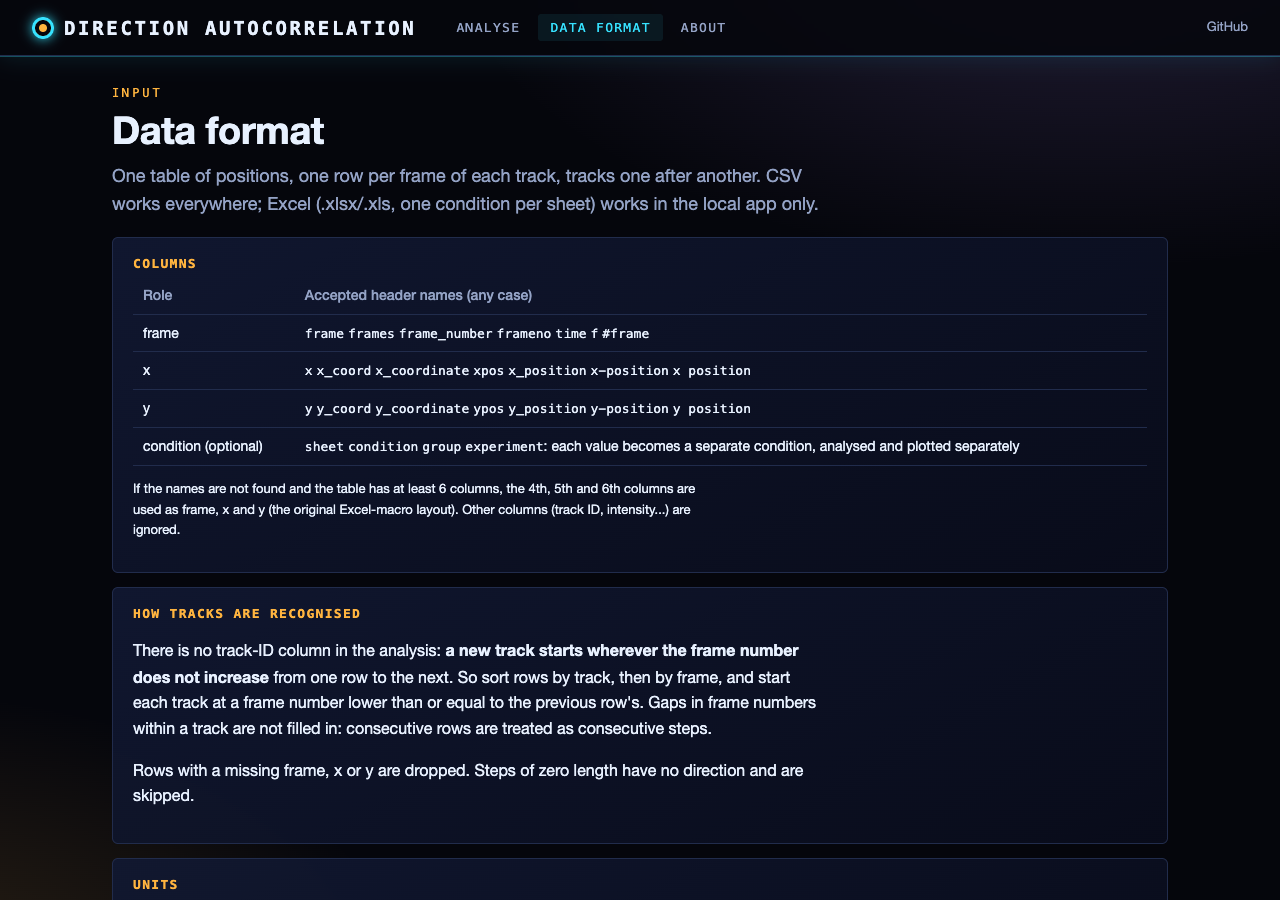
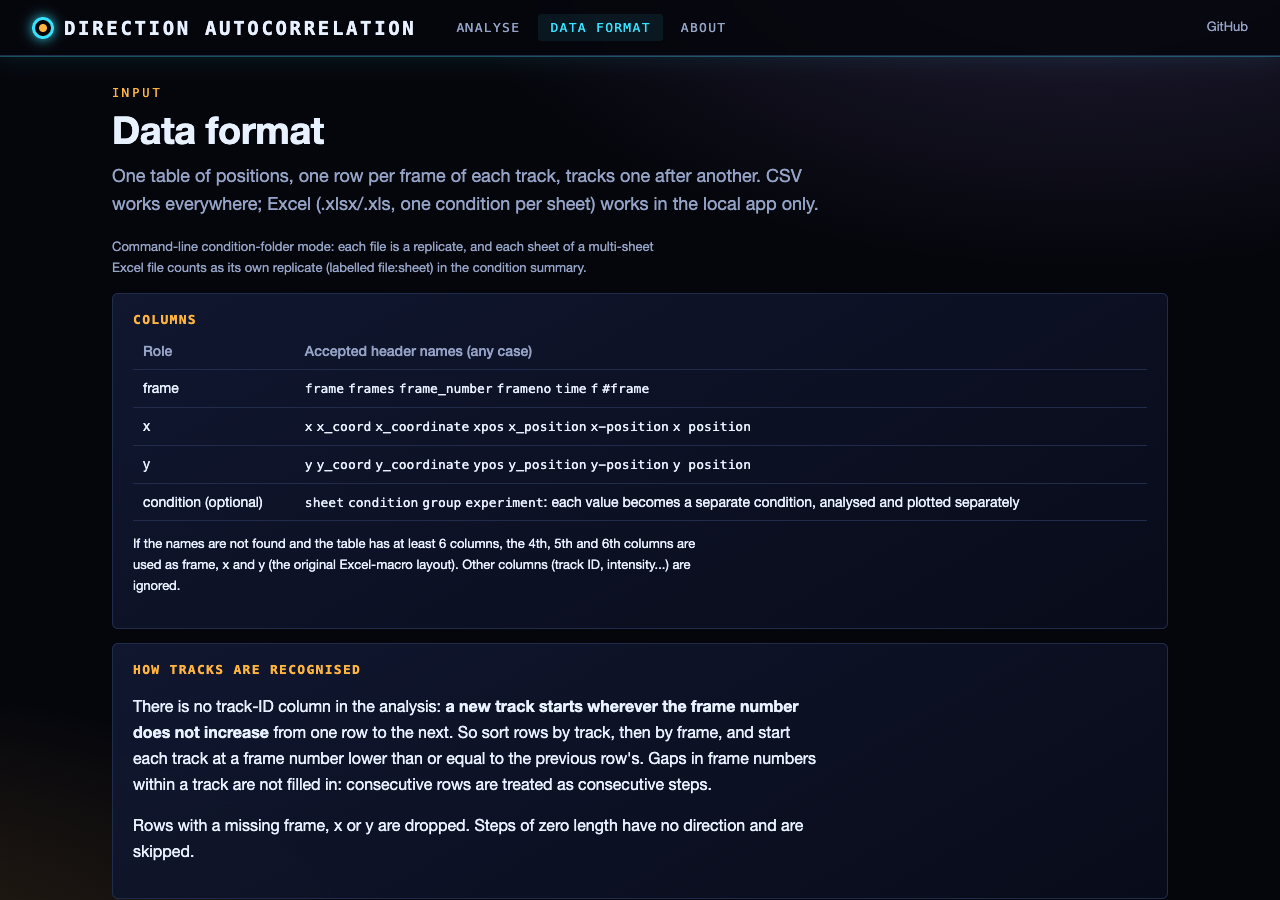
Fix condition aggregation using only the last sheet of multi-sheet files
aggregate_condition_results keyed replicate averages by file, so each sheet of a
multi-sheet file overwrote the previous one and only the last sheet entered the
condition summary (tracks from all sheets were kept, with clashing IDs). Every
sheet is now a replicate, labelled file:sheet (console log and file_id in the
condition track table); process_file returns file_name for the labels.
Single-sheet files give exactly the previous output.

- test_core.py TestConditionAggregationSheets: the multi-sheet test failed before
  the fix; the single-sheet output equals a frozen pre-fix reference
  (tests/fixtures/pre_multisheet_reference.json).
- README, format page, INTERFACE.md, SESSION_LOG.md updated.

Changed region(s): [[0.0625, 0.2489, 0.9062, 1.0]]

diff --git a/web/static/format.js b/web/static/format.js
@@ -10,6 +10,8 @@ route('format', async () => {
   app().innerHTML = `<p class="kicker">Input</p><h1>Data format</h1>
     <p class="lead">One table of positions, one row per frame of each track, tracks one after another. CSV works everywhere;
       Excel (.xlsx/.xls, one condition per sheet) works in the local app${isStatic() ? ' only' : ''}.</p>
+    <p class="small mute">Command-line condition-folder mode: each file is a replicate, and each sheet of a multi-sheet
+      Excel file counts as its own replicate (labelled file:sheet) in the condition summary.</p>
     <div class="panel"><h3 style="margin-top:0">Columns</h3>
       <table><tr><th>Role</th><th>Accepted header names (any case)</th></tr>
         <tr><td>frame</td><td>${code(c.frame)}</td></tr>

diff --git a/test_core.py b/test_core.py
@@ -273,3 +273,57 @@ class TestAllLagsComputed(unittest.TestCase):
         # the last lag is now finite: tracks of 40, 15 and 12 points contribute 29 + 4 + 1 pairs
         self.assertEqual(sp[n * ref['time_interval']].count(), 34)
         self.assertTrue(np.isfinite(av.loc['AVG', n * ref['time_interval']]))
+
+
+class TestConditionAggregationSheets(unittest.TestCase):
+    """aggregate_condition_results counts every sheet of a multi-sheet file as its own replicate (file:sheet)."""
+
+    @staticmethod
+    def _sheet_result(rows, dt=1.0, n=8):
+        import contextlib, io
+        from core import process_sheet
+        with contextlib.redirect_stdout(io.StringIO()):
+            _, av, tr = process_sheet(pd.DataFrame(rows), dt, n)
+        return av, tr
+
+    @staticmethod
+    def _ref():
+        import json
+        from pathlib import Path
+        return json.loads((Path(__file__).parent / 'tests' / 'fixtures' / 'pre_multisheet_reference.json').read_text())
+
+    def _aggregate(self, results):
+        import contextlib, io
+        from core import aggregate_condition_results
+        with contextlib.redirect_stdout(io.StringIO()):
+            return aggregate_condition_results(results, 'cond')
+
+    def test_every_sheet_is_a_replicate(self):
+        ref = self._ref()
+        (a1, t1), (a2, t2), (a3, t3) = [self._sheet_result(f) for f in ref['files']]
+        results = [{'file_name': 'two.xlsx', 'results': {'ctrl': a1, 'drug': a2},
+                    'individual_tracks': {'ctrl': t1, 'drug': t2}, 'file_type': 'excel'},
+                   {'file_name': 'one.xlsx', 'results': {'Sheet1': a3}, 'individual_tracks': {'Sheet1': t3},
+                    'file_type': 'excel'}]
+        summary, _, tracks = self._aggregate(results)
+        for col in a1.columns[1:]:
+            vals = np.array([a1.loc['AVG', col], a2.loc['AVG', col], a3.loc['AVG', col]])
+            self.assertAlmostEqual(summary.loc['AVG', float(col)], vals.mean(), places=14)
+            self.assertAlmostEqual(summary.loc['SEM', float(col)], vals.std(ddof=1) / np.sqrt(3), places=14)
+        self.assertEqual(sorted(tracks['file_id'].unique()), ['file_1:ctrl', 'file_1:drug', 'file_2'])
+        self.assertEqual(tracks['track_id'].nunique(), len(t1['track_id'].unique()) + len(t2['track_id'].unique())
+                         + len(t3['track_id'].unique()))
+
+    def test_single_sheet_files_unchanged(self):
+        """Single-sheet replicates give exactly the frozen pre-fix output (summary and tracks)."""
+        ref = self._ref()
+        results = []
+        for f in ref['files']:
+            av, tr = self._sheet_result(f, ref['time_interval'], ref['num_intervals'])
+            results.append({'results': {'Sheet1': av}, 'individual_tracks': {'Sheet1': tr}, 'file_type': 'csv'})
+        summary, _, tracks = self._aggregate(results)
+        self.assertEqual([float(c) for c in summary.columns], ref['summary_columns'])
+        np.testing.assert_array_equal(summary.loc['AVG'].to_numpy(float), np.array(ref['summary_avg'], float))
+        np.testing.assert_array_equal(summary.loc['SEM'].to_numpy(float), np.array(ref['summary_sem'], float))
+        for col, values in ref['tracks'].items():
+            self.assertEqual(list(tracks[col]), values, col)

diff --git a/core.py b/core.py
@@ -223,8 +223,11 @@ def aggregate_condition_results(results_list: list,
     """
     Aggregate results from multiple files in a condition.
 
-    Computes the mean and SEM of per-file averages across all time points,
-    and combines individual track data from all files.
+    Computes the mean and SEM of per-replicate averages across all time points,
+    and combines individual track data from all files. Each sheet of a file is a
+    replicate: a single-sheet file is labelled by the file, a multi-sheet file
+    gives one replicate per sheet labelled file:sheet (previously only the last
+    sheet of such a file was used).
 
     Args:
         results_list: List of result dictionaries from process_file.
@@ -250,13 +253,21 @@ def aggregate_condition_results(results_list: list,
 
     all_time_points = sorted(all_time_points)
 
+    def replicate_label(result, sheet_name, base):
+        # Single-sheet files keep the per-file label; each sheet of a multi-sheet file is its own replicate
+        return base if len(result['results']) == 1 else f"{base}:{sheet_name}"
+
     aggregated_data = defaultdict(dict)
+    labels = []
     for i, result in enumerate(results_list):
-        file_name = f"File_{i+1}"
+        file_label = result.get('file_name', f"File_{i+1}")
         for sheet_name, averages in result['results'].items():
+            label = replicate_label(result, sheet_name, file_label)
+            labels.append(label)
             for col in averages.columns:
-                time_point = float(col)
-                aggregated_data[time_point][file_name] = averages.loc['AVG', col]
+                # keyed by file position too, so two files with the same name stay separate replicates
+                aggregated_data[float(col)][(i, sheet_name)] = averages.loc['AVG', col]
+    print(f"  {len(labels)} replicate(s): {', '.join(labels)}")
 
     summary_data = {'AVG': {}, 'SEM': {}}
     for time_point in all_time_points:
@@ -277,7 +288,7 @@ def aggregate_condition_results(results_list: list,
         if 'individual_tracks' in result:
             for sheet_name, tracks_df in result['individual_tracks'].items():
                 tracks_df = tracks_df.copy()
-                file_id = f"file_{i+1}"
+                file_id = replicate_label(result, sheet_name, f"file_{i+1}")
                 tracks_df['file_id'] = file_id
                 tracks_df['track_id'] = tracks_df['track_id'] + f"_{file_id}"
                 aggregated_tracks.append(tracks_df)

diff --git a/cli.py b/cli.py
@@ -158,9 +158,9 @@ def process_file(input_file, time_interval, num_intervals, output_dir, output_pr
         total_elapsed = time.time() - total_start_time
         print(f"\nAnalysis complete in {total_elapsed:.2f} seconds!")
 
-        return True, {'results': all_results, 'scalar_products': all_scalar_products,
-                      'individual_tracks': all_individual_tracks, 'file_type': file_type,
-                      'output_files': output_files}, None
+        return True, {'file_name': os.path.basename(input_file),
+                      'results': all_results, 'scalar_products': all_scalar_products,
+                      'individual_tracks': all_individual_tracks, 'file_type': file_type, 'output_files': output_files}, None
 
     except Exception as e:
         error_msg = f"Error processing file: {str(e)}"

diff --git a/INTERFACE.md b/INTERFACE.md
@@ -18,7 +18,7 @@
   - `calculate_scalar_products(df, traj_starts, time_interval, num_intervals)` -> (combined_df, tracks_df)
   - `calculate_averages(scalar_products)` -> DataFrame with AVG/SEM rows
   - `process_sheet(sheet_df, time_interval, num_intervals)` -> (scalar_products, averages, tracks)
-  - `aggregate_condition_results(results_list, condition_name)` -> (summary_df, file_type, tracks_df)
+  - `aggregate_condition_results(results_list, condition_name)` -> (summary_df, file_type, tracks_df); one replicate per sheet (file:sheet for multi-sheet files)
 
 ### I/O
 - **io_utils.py** — File reading/writing
@@ -61,7 +61,7 @@
 - **requirements-web.txt** — pinned web/test dependencies
 
 ### Tests
-- **test_core.py** — 21 tests: vector normalization, scalar products (incl. `TestAllLagsComputed`: last lag computed, earlier lags equal the frozen pre-fix reference `tests/fixtures/pre_lastlag_reference.json`), averaging, index-label independence, column identification, file type detection
+- **test_core.py** — 23 tests (incl. `TestConditionAggregationSheets`: every sheet a replicate, single-sheet output equals the frozen reference `tests/fixtures/pre_multisheet_reference.json`): vector normalization, scalar products (incl. `TestAllLagsComputed`: last lag computed, earlier lags equal the frozen pre-fix reference `tests/fixtures/pre_lastlag_reference.json`), averaging, index-label independence, column identification, file type detection
 - **tests/test_web.py** — web API (fixture agreement, CLI-path identity, all conditions analysed, Excel, bad input),
   static build, and runs the node JS-engine tests
 

diff --git a/SESSION_LOG.md b/SESSION_LOG.md
@@ -28,3 +28,14 @@
 - Fixed in the JS port: numeric condition labels are named as pandas reads them ('02' -> '2'; '2.0' when a label is
   missing), so the local Python-vs-JS cross-check no longer reports a false mismatch. New fixture case `numeric_groups`.
 - Fixture regenerated: 4 cases, 304 values, worst |JS - Python| = 4.4e-16.
+
+## 2026-11-11 — condition aggregation fix (George approved)
+- Fixed in core.py: `aggregate_condition_results` keyed replicate averages by file, so every sheet of a multi-sheet
+  file overwrote the previous one and only the last sheet entered the condition summary (all sheets' tracks were
+  kept, with clashing track IDs). Each sheet is now a replicate, labelled file:sheet (console log; `file_id` in the
+  condition track table, e.g. `file_1:ctrl`). `process_file` now returns `file_name` for these labels.
+- Regression tests `TestConditionAggregationSheets`: the multi-sheet test failed before the fix; single-sheet output
+  (summary and track table) equals a frozen pre-fix reference (`tests/fixtures/pre_multisheet_reference.json`) exactly.
+- Checked end to end with `cli.process_condition_folder` on a CSV plus a two-sheet xlsx: 3 replicates.
+- The web pages analyse single files, so their results are unaffected; README and the format page note the behaviour.
+- cli.py is 509 lines (over the 500-line budget before this work); not split here.

diff --git a/README.md b/README.md
@@ -103,7 +103,7 @@ The GUI will prompt you for:
 
 ### For Condition Folders
 - Individual file outputs (as above)
-- `condition_summary.csv/xlsx` - Statistics aggregated across all files
+- `condition_summary.csv/xlsx` - Mean and SEM across replicates. Each file is a replicate; a multi-sheet Excel file gives one replicate per sheet, labelled `file:sheet` (in the console log and in the `file_id` column of the condition's individual-track table). Before 2026-11-11 only the last sheet of a multi-sheet file was used; single-sheet results are unchanged.
 - `condition_summary_plot.png` - Condition-level autocorrelation plot
 - `condition_all_tracks_plot.png` - All individual tracks in the condition
 
